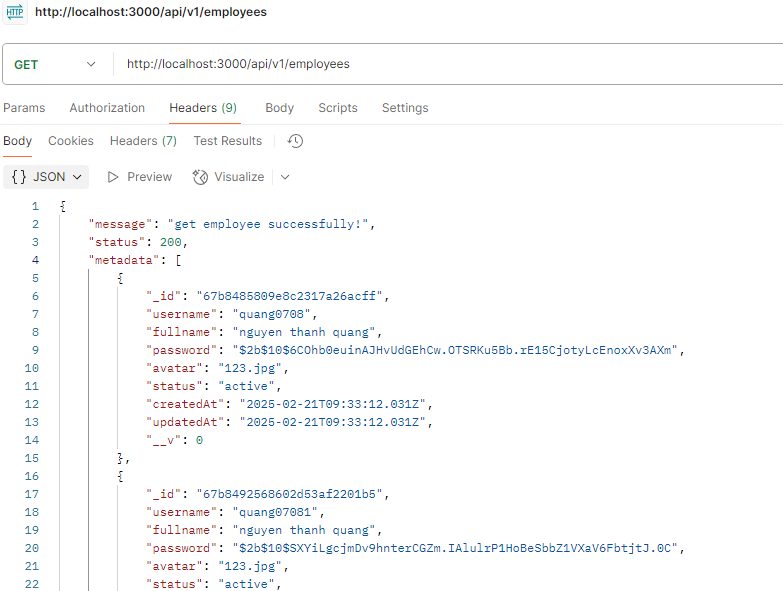
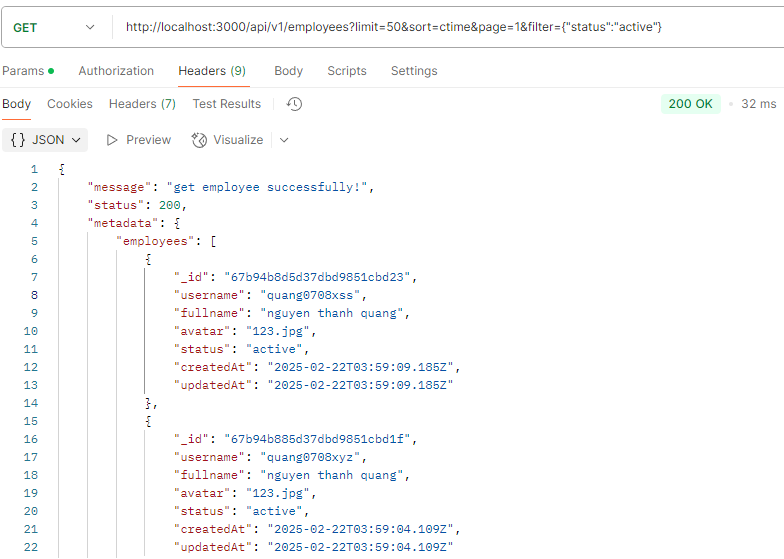
update(employee): optimize filter

Changed region(s): [[0.0, 0.0, 1.0, 1.0], [0.1839, 0.4866, 0.8582, 1.0], [0.9502, 0.1825, 1.0, 0.2129]]

diff --git a/src/repository/employee.repository.ts b/src/repository/employee.repository.ts
@@ -15,10 +15,11 @@ const updateEmployeeById = async ({ userId, payload, isNew = true }: UpdateEmplo
       throw new BadRequestError('Invalid user ID')
     }
 
+    const unselect: string[] = ['__v', 'password']
     const updatedEmployee = await EmployeeModel.findByIdAndUpdate(userId, payload, {
       new: isNew,
       runValidators: true
-    })
+    }).select(unGetDataSelectProduct(unselect))
 
     if (!updatedEmployee) {
       throw new NotFoundError('Employee not found')

diff --git a/src/services/employment/employee.service.ts b/src/services/employment/employee.service.ts
@@ -10,11 +10,13 @@ import {
 import { IUserUpdate } from './employmee.type'
 class EmployeeService {
   static async getEmployees({ limit = 50, sort = 'ctime', page = 1, filter = { status: 'active' } }) {
+    const parsedFilter = typeof filter === 'string' ? JSON.parse(filter) : filter
+
     return await findAllEmployees({
       limit,
       sort,
       page,
-      filter,
+      filter: parsedFilter,
       unselect: ['__v', 'password']
     })
   }

diff --git a/src/controllers/employee.controller.ts b/src/controllers/employee.controller.ts
@@ -5,6 +5,7 @@ import EmployeeService from '~/services/employment/employee.service'
 
 class UserController {
   getEmployees = async (req: Request, res: Response) => {
+    console.log(req.query)
     new SuccessResponse({
       message: 'get employee successfully!',
       metadata: await EmployeeService.getEmployees(req.query)
